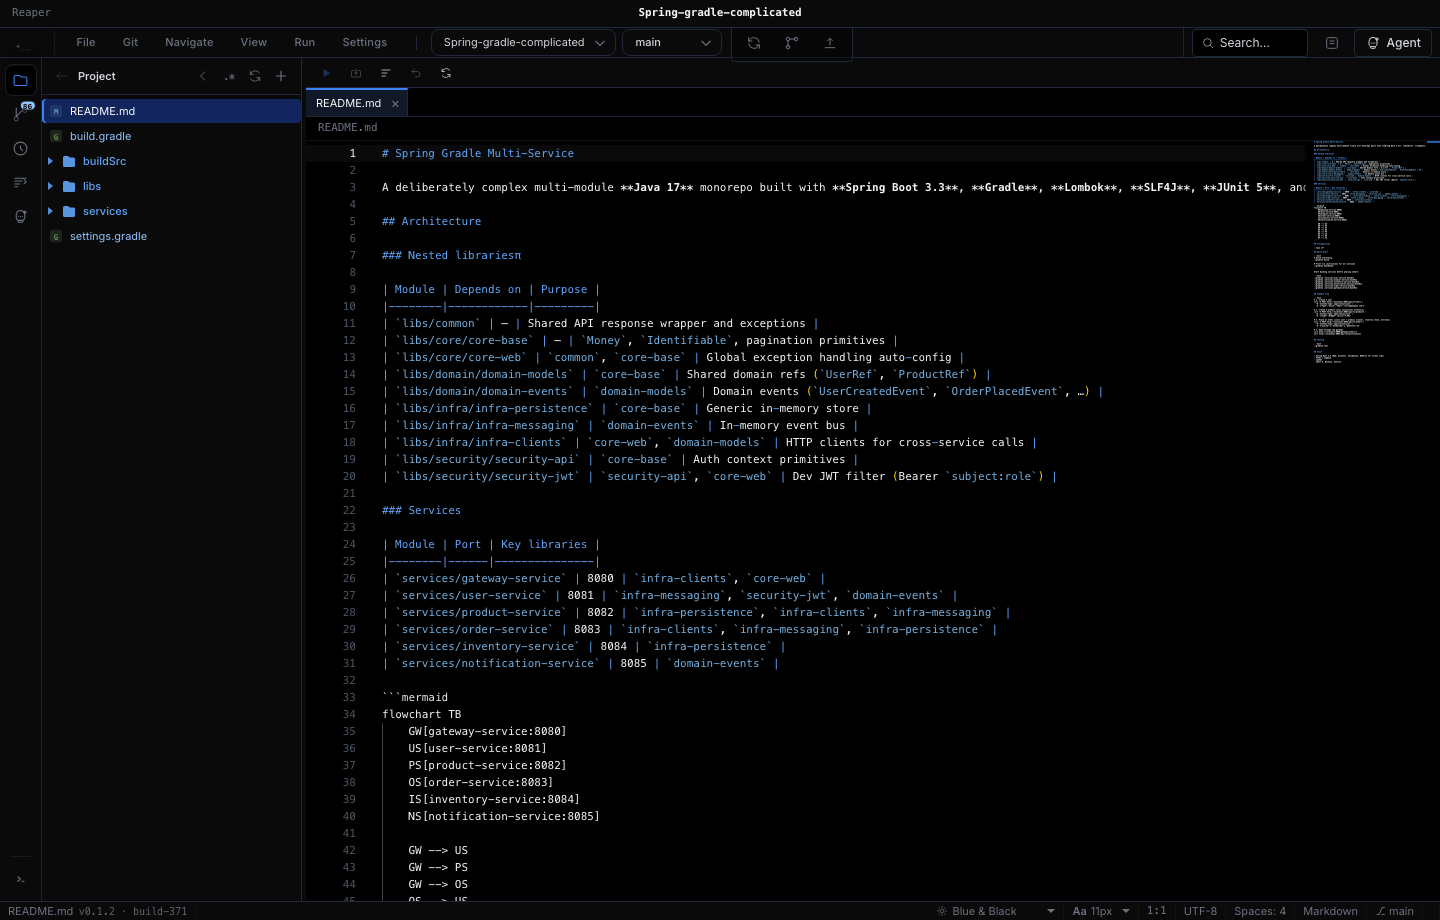
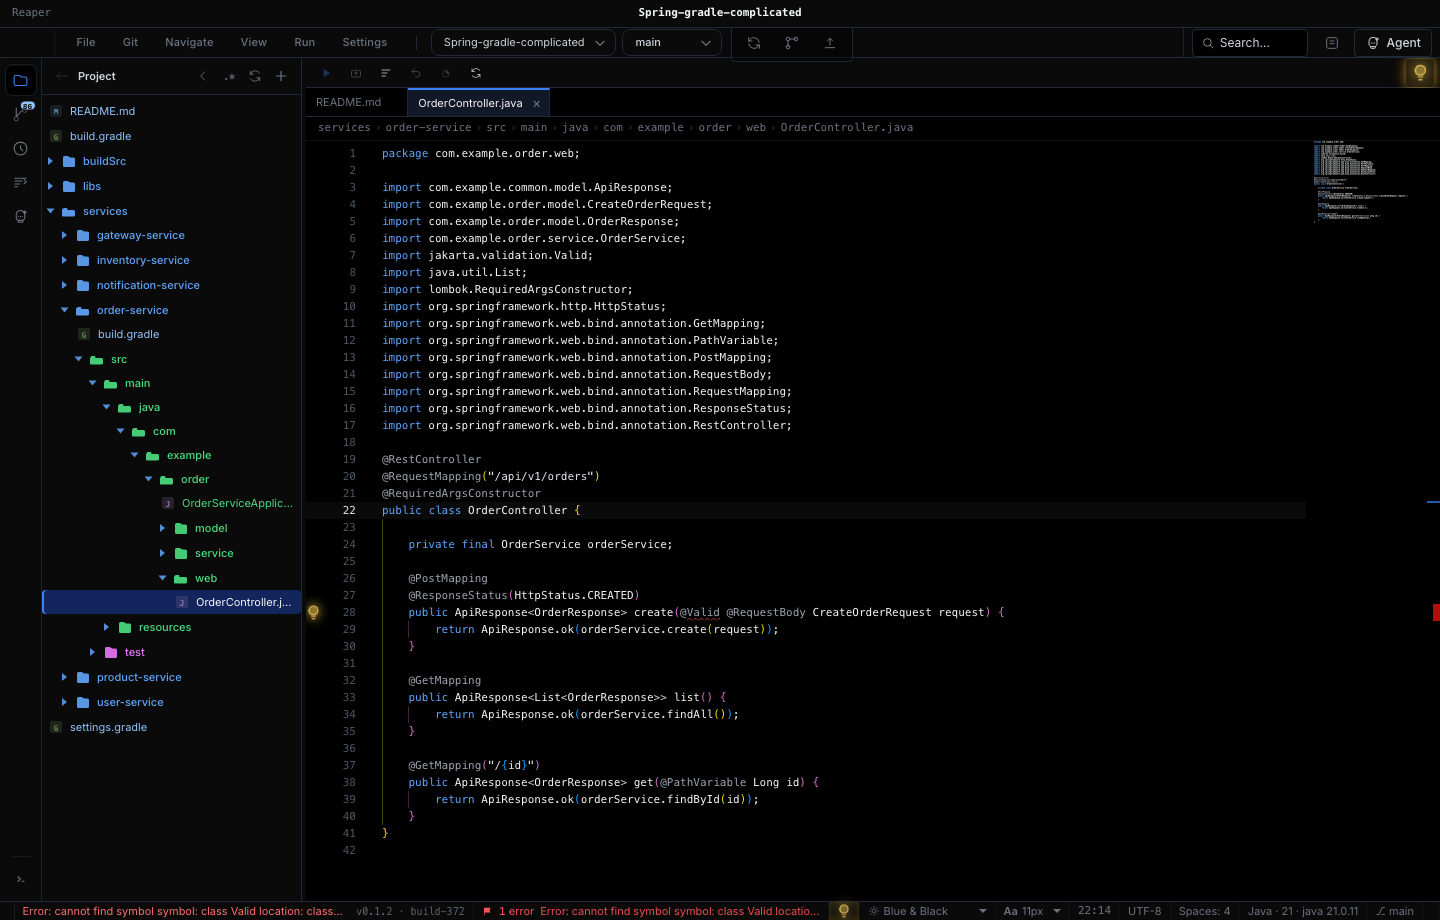
feat: Expand welcome showcase with full feature screenshots.

diff --git a/static/app.js b/static/app.js
@@ -1252,6 +1252,57 @@ function getInitialRepoFromUrl() {
   return repo || null;
 }
 
+function shouldSkipAutoRepoOpen() {
+  return new URLSearchParams(window.location.search).has('norepo');
+}
+
+function shouldShowWelcomeShowcase() {
+  return new URLSearchParams(window.location.search).get('showcase') !== '0';
+}
+
+async function applyCaptureDemoFromUrl() {
+  const params = new URLSearchParams(window.location.search);
+  if (!params.has('capture')) return;
+  dismissLaunchSplashNow();
+  await new Promise((r) => setTimeout(r, 1500));
+  const mode = params.get('capture');
+  if (mode === 'file') {
+    const path = params.get('path')?.trim();
+    if (path && state.repo) await openFile(path, { silent: true });
+    await new Promise((r) => setTimeout(r, 3500));
+    return;
+  }
+  if (mode === 'panel') {
+    const panel = params.get('panel');
+    if (panel === 'agent') {
+      if (state.agentDock !== 'left') toggleAgent();
+      else switchPanel('agent');
+    } else if (panel === 'terminal') {
+      showTerminal();
+    } else if (panel) {
+      switchPanel(panel);
+    }
+    await new Promise((r) => setTimeout(r, panel === 'history' ? 3000 : 2000));
+    return;
+  }
+  if (mode === 'feature') {
+    const feature = params.get('feature');
+    if (feature === 'build-tasks') {
+      showBuildTasksPanel();
+      await new Promise((r) => setTimeout(r, 5000));
+    } else if (feature === 'search') {
+      showSearchEverywhere(params.get('q') || 'Order');
+      await new Promise((r) => setTimeout(r, 2500));
+    } else if (feature === 'palette') {
+      showPalette();
+      await new Promise((r) => setTimeout(r, 1500));
+    } else if (feature === 'go-to-class') {
+      showGoToClass(params.get('q') || 'Order');
+      await new Promise((r) => setTimeout(r, 2500));
+    }
+  }
+}
+
 function syncDockMenuControls() {
   ['left', 'right', 'bottom'].forEach((dock) => {
     $$(`.ij-menu-item[data-action="terminal-dock-${dock}"]`).forEach((el) => {
@@ -4309,10 +4360,17 @@ async function pollProjectIndexStatus() {
 }
 
 function welcomeShowcaseHtml() {
+  if (!shouldShowWelcomeShowcase()) return '';
   const shots = [
     { file: 'welcome-home', label: 'Home', alt: 'Reaper welcome screen with quick actions' },
-    { file: 'editor-java', label: 'Editor', alt: 'Monaco editor with project tree and syntax highlighting' },
-    { file: 'git-commit', label: 'Git', alt: 'Git commit panel with staged changes' },
+    { file: 'editor-java', label: 'Editor', alt: 'Monaco editor with Java syntax highlighting' },
+    { file: 'git-commit', label: 'Commit', alt: 'Git commit panel with staged changes' },
+    { file: 'git-history', label: 'Git log', alt: 'Git history and commit log' },
+    { file: 'terminal', label: 'Terminal', alt: 'Integrated terminal for Gradle and shell output' },
+    { file: 'agent', label: 'Agent', alt: 'Cursor agent chat for AI-assisted editing' },
+    { file: 'build-tasks', label: 'Build', alt: 'Gradle and Maven build tasks tree' },
+    { file: 'search', label: 'Search', alt: 'Search classes, files, and text across the project' },
+    { file: 'go-to-class', label: 'Navigate', alt: 'Go to Class for Java symbol navigation' },
   ];
   return `<aside class="ij-welcome-showcase" aria-label="Reaper in action">
     ${shots.map(({ file, label, alt }) => `
@@ -16072,8 +16130,8 @@ async function init() {
     toast(`Could not reach Reaper backend: ${err.message}. Quit other Reaper copies and relaunch.`, 'error', { duration: 15000 });
   }
   hideLaunchSplash();
-  let repoToOpen = getInitialRepoFromUrl();
-  if (!repoToOpen) {
+  let repoToOpen = shouldSkipAutoRepoOpen() ? null : getInitialRepoFromUrl();
+  if (!repoToOpen && !shouldSkipAutoRepoOpen()) {
     try {
       const general = await api('/api/settings/general');
       repoToOpen = general?.default_repo || general?.last_repo || null;
@@ -16086,6 +16144,7 @@ async function init() {
   } else if (!state.repo) {
     showNoRepoFileTree();
   }
+  await applyCaptureDemoFromUrl();
   hideLaunchSplash({ immediate: true });
   setInterval(async () => {
     if (state.cursorConfigured && !state.cursorBridgeOk && !state.agentBusy) {

diff --git a/static/reaper-ui.css b/static/reaper-ui.css
@@ -2075,9 +2075,9 @@ details.ij-tree-dir > summary::-webkit-details-marker { display: none; }
 
 .ij-welcome-layout {
   display: grid;
-  grid-template-columns: minmax(280px, 1fr) minmax(240px, 380px);
+  grid-template-columns: minmax(300px, 1fr) minmax(320px, 520px);
   gap: 2rem 2.5rem;
-  width: min(100%, 1080px);
+  width: min(100%, 1180px);
   margin: 0 auto;
   align-items: start;
 }
@@ -2090,36 +2090,39 @@ details.ij-tree-dir > summary::-webkit-details-marker { display: none; }
 }
 
 .ij-welcome-showcase {
-  display: flex;
-  flex-direction: column;
-  gap: 12px;
+  display: grid;
+  grid-template-columns: repeat(2, minmax(0, 1fr));
+  gap: 10px;
   position: sticky;
   top: 0.5rem;
+  max-height: calc(100vh - 4rem);
+  overflow: auto;
+  padding-right: 2px;
 }
 
 .ij-welcome-frame {
   margin: 0;
-  padding: 12px;
+  padding: 8px;
   background: #0a0a0a;
   border: 1px solid #141414;
-  border-radius: 10px;
-  box-shadow: 0 12px 36px rgba(0, 0, 0, 0.45);
+  border-radius: 8px;
+  box-shadow: 0 8px 24px rgba(0, 0, 0, 0.4);
 }
 
 .ij-welcome-frame img {
   display: block;
   width: 100%;
-  min-height: 120px;
+  min-height: 72px;
   height: auto;
-  border-radius: 4px;
+  border-radius: 3px;
   background: var(--ij-bg);
   object-fit: cover;
-  object-position: top;
+  object-position: top left;
 }
 
 .ij-welcome-frame figcaption {
-  margin: 8px 0 0;
-  font-size: 10px;
+  margin: 6px 0 0;
+  font-size: 9px;
   font-weight: 600;
   letter-spacing: 0.08em;
   text-transform: uppercase;
@@ -2143,6 +2146,14 @@ details.ij-tree-dir > summary::-webkit-details-marker { display: none; }
   .ij-welcome-showcase {
     position: static;
     order: 2;
+    max-height: none;
+    grid-template-columns: repeat(2, minmax(0, 1fr));
+  }
+}
+
+@media (max-width: 560px) {
+  .ij-welcome-showcase {
+    grid-template-columns: 1fr;
   }
 }
 

diff --git a/static/index.html b/static/index.html
@@ -3,7 +3,7 @@
 <head>
   <meta charset="UTF-8" />
   <meta name="viewport" content="width=device-width, initial-scale=1.0" />
-  <meta name="reaper-ui-build" content="371" />
+  <meta name="reaper-ui-build" content="372" />
   <meta name="reaper-app-version" content="0.1.2" />
   <title>Reaper — IDE</title>
   <link rel="icon" href="/favicon.svg" type="image/svg+xml" />
@@ -71,7 +71,7 @@
   <link rel="preconnect" href="https://fonts.googleapis.com" />
   <link rel="preconnect" href="https://fonts.gstatic.com" crossorigin />
   <link href="https://fonts.googleapis.com/css2?family=Inter:wght@400;500;600;700&display=swap" rel="stylesheet" />
-  <link rel="stylesheet" href="/reaper-ui.css?v=371" />
+  <link rel="stylesheet" href="/reaper-ui.css?v=372" />
   <link rel="stylesheet" href="/logo-animated.css?v=5" />
   <script src="/vendor/dompurify.min.js"></script>
   <script src="/vendor/marked.min.js"></script>
@@ -1522,9 +1522,9 @@
   <script src="/vendor/monaco-editor/min/vs/loader.js" onerror="this.onerror=null;this.src='https://cdn.jsdelivr.net/npm/monaco-editor@0.52.2/min/vs/loader.js'"></script>
   <script src="/logo.js?v=43"></script>
   <script src="/icons.js?v=3"></script>
-  <script src="/reaper-lang-core.js?v=371"></script>
-  <script src="/monaco-languages.js?v=371" onerror="window.__reaperLangBundleError=true"></script>
+  <script src="/reaper-lang-core.js?v=372"></script>
+  <script src="/monaco-languages.js?v=372" onerror="window.__reaperLangBundleError=true"></script>
   <script src="/themes.js?v=14"></script>
-  <script src="/app.js?v=371"></script>
+  <script src="/app.js?v=372"></script>
 </body>
 </html>
